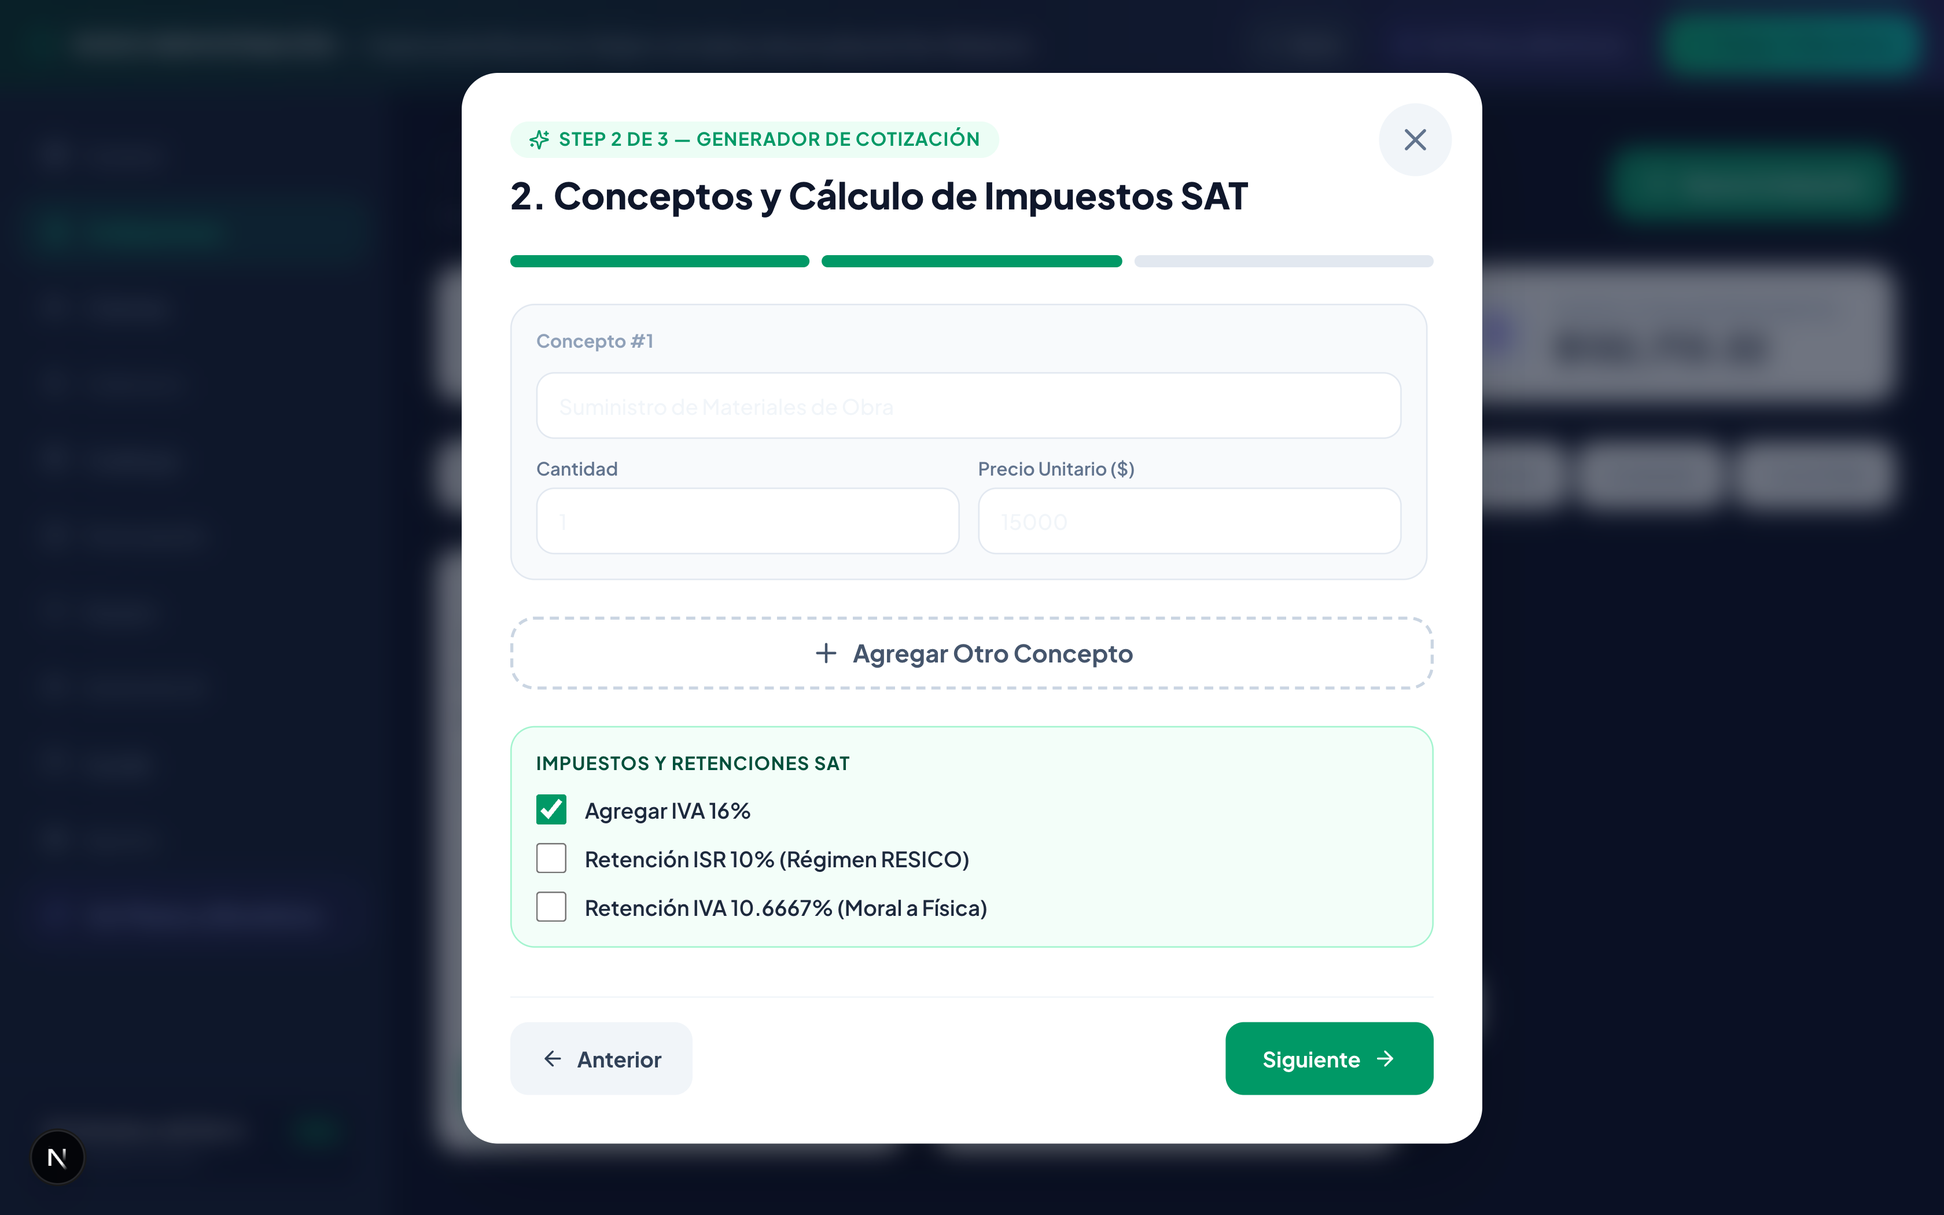
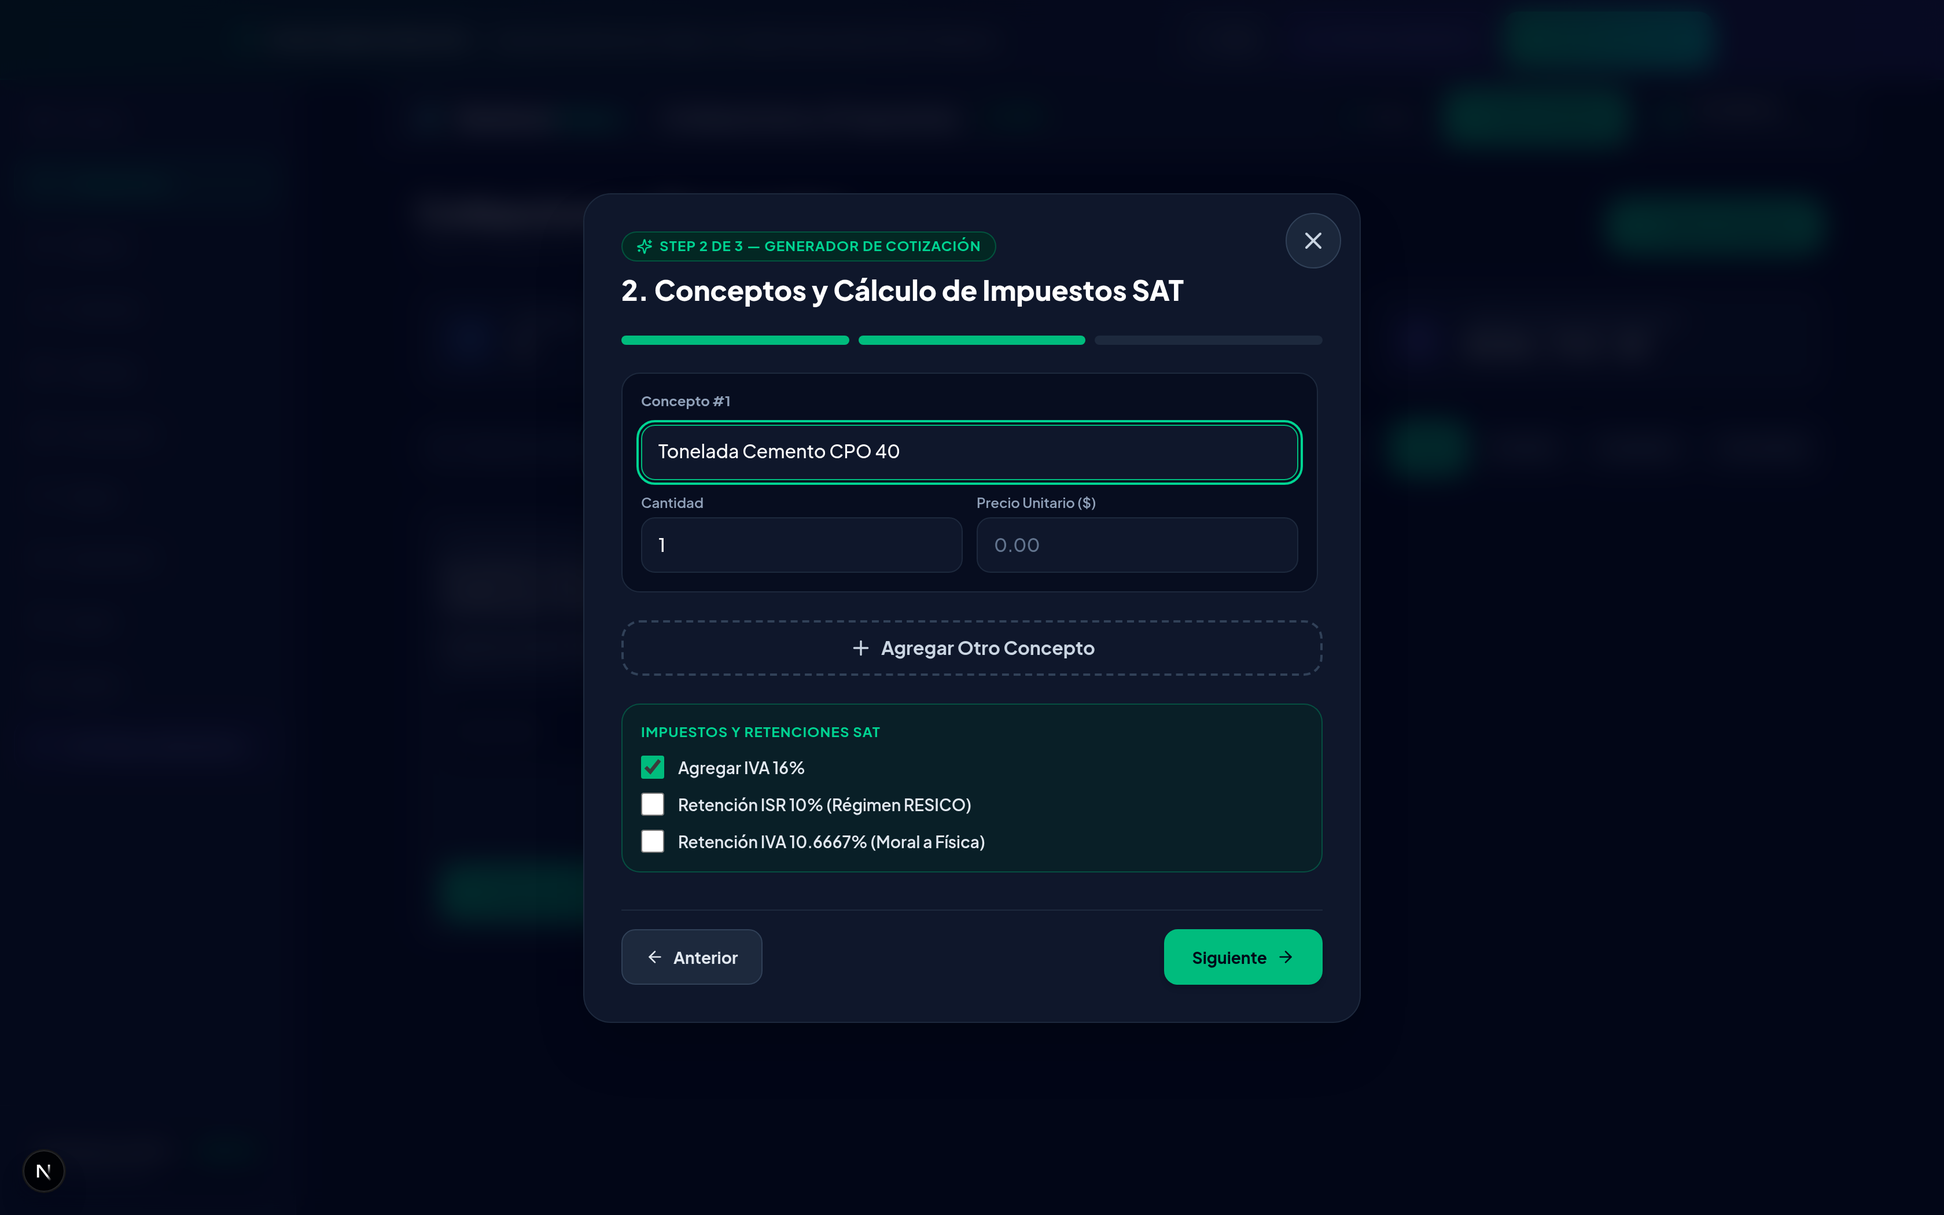
fix(landing): OTP copy says email, mailto buttons get a copy fallback, stale screenshots retaken
Three landing-page reports from the founder:

- The showcase headline promised an OTP "desde su celular"; email has been
  the launch channel since 2026-08-11 (lib/otpDelivery.ts). Reworded the
  headline, and fixed the two remaining "OTP por WhatsApp" claims the same
  grep surfaced in lib/stripe.ts plan features and app/demo/page.tsx.

- The "send email" buttons are mailto: links, which silently do nothing on
  a device with no mail handler. Added CopyEmailButton — a copy-to-clipboard
  fallback that only says "Copiado" after the copy actually happened — next
  to every published address in ContactSection and TeamSection.

- cuj_05_signing_otp_modal.png promised an SMS code and showed a retired
  light theme; cuj_04 and cuj_07 were also captures of the old light UI.
  Retook all three against the current app (dev server in demo mode,
  Playwright + bundled Chromium). The OTP shot shows the real modal in its
  email-sent state.

Retaking cuj_07 exposed that /pay/[token] renders an empty CLABE box with
a copy button that copies nothing when the row has no CLABE (the demo
fixture ships clabe: null on purpose). It now names the absence instead,
per the #44 rule; pinned in PublicPayPage.test.tsx and shown to fail with
the fix reverted.

Verified: typecheck, lint (0 warnings), vitest 1707 passed, next build.
Screenshots verified against the local dev server only — no third-party
call is involved in this change.
[…]

diff --git a/tests/components/CopyEmailButton.test.tsx b/tests/components/CopyEmailButton.test.tsx
@@ -1,0 +1,115 @@
+import React from 'react';
+import { render, screen, fireEvent, waitFor, cleanup } from '@testing-library/react';
+import { describe, it, expect, vi, afterEach } from 'vitest';
+import { CopyEmailButton } from '@/components/landing/CopyEmailButton';
+import { ContactSection } from '@/components/landing/ContactSection';
+import { TeamSection } from '@/components/landing/TeamSection';
+import { CONTACT_INFO, TEAM_MEMBERS } from '@/lib/trustData';
+
+/**
+ * The contact CTAs are mailto: links, which do nothing visible on a machine
+ * with no mail handler (the "buttons to send emails do not do anything"
+ * report). CopyEmailButton is the fallback that must always work — and, per
+ * hard rule #1, must never say "Copiado" for a copy that did not happen.
+ */
+
+function stubClipboard(writeText: (text: string) => Promise<void>) {
+  Object.defineProperty(navigator, 'clipboard', {
+    value: { writeText },
+    configurable: true,
+  });
+}
+
+function removeClipboard() {
+  Object.defineProperty(navigator, 'clipboard', {
+    value: undefined,
+    configurable: true,
+  });
+}
+
+afterEach(() => {
+  cleanup();
+  removeClipboard();
+  vi.restoreAllMocks();
+});
+
+describe('CopyEmailButton', () => {
+  it('copies the address to the clipboard and reports "Copiado"', async () => {
+    const writeText = vi.fn().mockResolvedValue(undefined);
+    stubClipboard(writeText);
+
+    render(<CopyEmailButton email="contacto@businesshelper.app" />);
+    fireEvent.click(screen.getByRole('button', { name: /copiar correo/i }));
+
+    await waitFor(() => {
+      expect(screen.getByText('Copiado')).toBeInTheDocument();
+    });
+    expect(writeText).toHaveBeenCalledWith('contacto@businesshelper.app');
+  });
+
+  it('does NOT claim "Copiado" when every copy mechanism fails', async () => {
+    // No async clipboard API at all, and execCommand refuses.
+    removeClipboard();
+    document.execCommand = vi.fn().mockReturnValue(false);
+
+    render(<CopyEmailButton email="contacto@businesshelper.app" />);
+    fireEvent.click(screen.getByRole('button', { name: /copiar correo/i }));
+
+    await waitFor(() => {
+      expect(screen.getByText('No se pudo copiar')).toBeInTheDocument();
+    });
+    expect(screen.queryByText('Copiado')).not.toBeInTheDocument();
+  });
+
+  it('falls back to execCommand when the async clipboard API rejects', async () => {
+    stubClipboard(vi.fn().mockRejectedValue(new Error('denied')));
+    document.execCommand = vi.fn().mockReturnValue(true);
+
+    render(<CopyEmailButton email="soporte@businesshelper.app" />);
+    fireEvent.click(screen.getByRole('button', { name: /copiar correo/i }));
+
+    await waitFor(() => {
+      expect(screen.getByText('Copiado')).toBeInTheDocument();
+    });
+    expect(document.execCommand).toHaveBeenCalledWith('copy');
+  });
+});
+
+describe('ContactSection email affordances', () => {
+  it('renders a mailto link AND a copy fallback for every published address', () => {
+    render(<ContactSection />);
+
+    const addresses = [
+      CONTACT_INFO.email,
+      CONTACT_INFO.supportEmail,
+      CONTACT_INFO.founderEmail,
+      CONTACT_INFO.privacyEmail,
+    ];
+
+    addresses.forEach((address) => {
+      // The mailto CTA still exists for devices that do have a mail app…
+      const mailtoLinks = screen
+        .getAllByRole('link')
+        .filter((a) => (a.getAttribute('href') || '').startsWith(`mailto:${address}`));
+      expect(mailtoLinks.length, `missing mailto link for ${address}`).toBeGreaterThan(0);
+
+      // …and the copy button covers the devices where mailto does nothing.
+      expect(
+        screen.getByRole('button', { name: `Copiar correo ${address}` }),
+        `missing copy fallback for ${address}`
+      ).toBeInTheDocument();
+    });
+  });
+});
+
+describe('TeamSection email affordances', () => {
+  it('renders a copy fallback next to each member mailto link', () => {
+    render(<TeamSection />);
+
+    TEAM_MEMBERS.forEach((member) => {
+      expect(
+        screen.getByRole('button', { name: `Copiar correo ${member.contactEmail}` })
+      ).toBeInTheDocument();
+    });
+  });
+});

diff --git a/components/landing/ContactSection.tsx b/components/landing/ContactSection.tsx
@@ -3,6 +3,7 @@
 import React from 'react';
 import { CONTACT_INFO } from '@/lib/trustData';
 import { Mail, MapPin, Clock, ShieldCheck, User, HelpCircle } from 'lucide-react';
+import { CopyEmailButton } from '@/components/landing/CopyEmailButton';
 
 export function ContactSection() {
   return (
@@ -32,8 +33,9 @@ export function ContactSection() {
               <h3 className="text-base font-bold text-white tracking-tight">Contacto General</h3>
               <p className="text-xs text-slate-400 mt-1">Demos, información comercial y facturación.</p>
             </div>
-            <div className="text-sm font-extrabold text-indigo-400 break-all border-t border-slate-800/80 pt-4">
-              {CONTACT_INFO.email}
+            <div className="border-t border-slate-800/80 pt-4 flex items-center justify-between gap-3">
+              <span className="text-sm font-extrabold text-indigo-400 break-all">{CONTACT_INFO.email}</span>
+              <CopyEmailButton email={CONTACT_INFO.email} />
             </div>
           </div>
           <a
@@ -60,8 +62,9 @@ export function ContactSection() {
               </div>
               <p className="text-xs text-slate-400 mt-1">Ayuda con CFDI 4.0, timbrado y plataforma.</p>
             </div>
-            <div className="text-sm font-extrabold text-teal-400 break-all border-t border-slate-800/80 pt-4">
-              {CONTACT_INFO.supportEmail}
+            <div className="border-t border-slate-800/80 pt-4 flex items-center justify-between gap-3">
+              <span className="text-sm font-extrabold text-teal-400 break-all">{CONTACT_INFO.supportEmail}</span>
+              <CopyEmailButton email={CONTACT_INFO.supportEmail} />
             </div>
           </div>
           <a
@@ -83,8 +86,9 @@ export function ContactSection() {
               <h3 className="text-base font-bold text-white tracking-tight">Fundador & CEO</h3>
               <p className="text-xs text-slate-400 mt-1">Contacto directo con Hector Zamora para alianzas.</p>
             </div>
-            <div className="text-sm font-extrabold text-emerald-400 break-all border-t border-slate-800/80 pt-4">
-              {CONTACT_INFO.founderEmail}
+            <div className="border-t border-slate-800/80 pt-4 flex items-center justify-between gap-3">
+              <span className="text-sm font-extrabold text-emerald-400 break-all">{CONTACT_INFO.founderEmail}</span>
+              <CopyEmailButton email={CONTACT_INFO.founderEmail} />
             </div>
           </div>
           <a
@@ -107,10 +111,13 @@ export function ContactSection() {
           <Clock className="w-4 h-4 text-indigo-400 shrink-0" />
           <span>{CONTACT_INFO.hours}</span>
         </div>
-        <a href={`mailto:${CONTACT_INFO.privacyEmail}`} className="text-slate-400 hover:text-white transition-colors text-xs flex items-center gap-1.5">
-          <ShieldCheck className="w-4 h-4 text-teal-400 shrink-0" />
-          <span>Derechos ARCO: <strong className="text-slate-300">{CONTACT_INFO.privacyEmail}</strong></span>
-        </a>
+        <div className="flex items-center gap-2">
+          <a href={`mailto:${CONTACT_INFO.privacyEmail}`} className="text-slate-400 hover:text-white transition-colors text-xs flex items-center gap-1.5">
+            <ShieldCheck className="w-4 h-4 text-teal-400 shrink-0" />
+            <span>Derechos ARCO: <strong className="text-slate-300">{CONTACT_INFO.privacyEmail}</strong></span>
+          </a>
+          <CopyEmailButton email={CONTACT_INFO.privacyEmail} className="px-2.5" />
+        </div>
       </div>
     </div>
   );

diff --git a/components/landing/CopyEmailButton.tsx b/components/landing/CopyEmailButton.tsx
@@ -1,0 +1,95 @@
+'use client';
+
+import React, { useEffect, useRef, useState } from 'react';
+import { Check, Copy, AlertTriangle } from 'lucide-react';
+
+/**
+ * Copy-an-email-address button.
+ *
+ * The contact CTAs are `mailto:` links, and on a device with no mail handler
+ * configured (very common on desktop browsers) clicking one does nothing
+ * visible. This button is the fallback that always works: it puts the address
+ * on the clipboard so the visitor can paste it into whatever mail client they
+ * actually use.
+ *
+ * The label only says "Copiado" after the copy really happened — a failed
+ * copy says so instead of pretending (hard rule #1).
+ */
+
+type CopyState = 'idle' | 'copied' | 'failed';
+
+interface CopyEmailButtonProps {
+  email: string;
+  className?: string;
+}
+
+const RESET_AFTER_MS = 2500;
+
+function copyViaExecCommand(text: string): boolean {
+  try {
+    const textarea = document.createElement('textarea');
+    textarea.value = text;
+    textarea.setAttribute('readonly', '');
+    textarea.style.position = 'fixed';
+    textarea.style.opacity = '0';
+    document.body.appendChild(textarea);
+    textarea.select();
+    const copied = document.execCommand('copy');
+    document.body.removeChild(textarea);
+    return copied;
+  } catch {
+    return false;
+  }
+}
+
+export function CopyEmailButton({ email, className = '' }: CopyEmailButtonProps) {
+  const [state, setState] = useState<CopyState>('idle');
+  const resetTimer = useRef<ReturnType<typeof setTimeout> | null>(null);
+
+  useEffect(() => {
+    return () => {
+      if (resetTimer.current) clearTimeout(resetTimer.current);
+    };
+  }, []);
+
+  const handleCopy = async () => {
+    let copied = false;
+
+    try {
+      if (navigator.clipboard?.writeText) {
+        await navigator.clipboard.writeText(email);
+        copied = true;
+      }
+    } catch {
+      copied = false;
+    }
+
+    if (!copied) {
+      copied = copyViaExecCommand(email);
+    }
+
+    setState(copied ? 'copied' : 'failed');
+    if (resetTimer.current) clearTimeout(resetTimer.current);
+    resetTimer.current = setTimeout(() => setState('idle'), RESET_AFTER_MS);
+  };
+
+  return (
+    <button
+      type="button"
+      onClick={handleCopy}
+      aria-label={`Copiar correo ${email}`}
+      className={`inline-flex items-center justify-center gap-1.5 min-h-[48px] px-3 py-2 rounded-xl border border-slate-700 bg-slate-800/80 text-slate-200 hover:bg-slate-700 hover:text-white text-xs font-bold transition-colors active:scale-95 shrink-0 ${className}`}
+    >
+      {state === 'copied' ? (
+        <Check className="w-4 h-4 text-emerald-400" />
+      ) : state === 'failed' ? (
+        <AlertTriangle className="w-4 h-4 text-amber-400" />
+      ) : (
+        <Copy className="w-4 h-4" />
+      )}
+      <span>
+        {state === 'copied' ? 'Copiado' : state === 'failed' ? 'No se pudo copiar' : 'Copiar'}
+      </span>
+    </button>
+  );
+}

diff --git a/app/pay/[token]/page.tsx b/app/pay/[token]/page.tsx
@@ -308,17 +308,26 @@ export default function PublicPayPortalPage() {
           <div className="space-y-3 pt-2">
             <div>
               <span className="text-xs text-slate-400 block font-medium">CLABE Interbancaria (18 dígitos)</span>
-              <div className="flex items-center justify-between mt-1 bg-slate-950/80 p-3 rounded-2xl border border-slate-800">
-                <span className="min-w-0 break-all font-mono text-lg font-bold tracking-wider text-white">{milestone.clabe}</span>
-                <button
-                  type="button"
-                  onClick={handleCopyClabe}
-                  aria-label={copiedClabe ? 'CLABE copiada' : 'Copiar CLABE'}
-                  className="p-2 bg-indigo-600 hover:bg-indigo-500 rounded-xl text-white transition-colors min-h-[48px] min-w-[48px] flex items-center justify-center shadow-md"
-                >
-                  {copiedClabe ? <Check className="w-4 h-4 text-emerald-300" /> : <Copy className="w-4 h-4" />}
-                </button>
-              </div>
+              {milestone.clabe ? (
+                <div className="flex items-center justify-between mt-1 bg-slate-950/80 p-3 rounded-2xl border border-slate-800">
+                  <span className="min-w-0 break-all font-mono text-lg font-bold tracking-wider text-white">{milestone.clabe}</span>
+                  <button
+                    type="button"
+                    onClick={handleCopyClabe}
+                    aria-label={copiedClabe ? 'CLABE copiada' : 'Copiar CLABE'}
+                    className="p-2 bg-indigo-600 hover:bg-indigo-500 rounded-xl text-white transition-colors min-h-[48px] min-w-[48px] flex items-center justify-center shadow-md"
+                  >
+                    {copiedClabe ? <Check className="w-4 h-4 text-emerald-300" /> : <Copy className="w-4 h-4" />}
+                  </button>
+                </div>
+              ) : (
+                /* No CLABE on the row → say so; an empty box with a copy button
+                   that copies nothing reads as a broken page (#44: absent is
+                   absent — never a control that pretends the value exists). */
+                <div className="mt-1 bg-slate-950/80 p-3 rounded-2xl border border-slate-800 text-xs text-slate-400">
+                  El proveedor aún no registra su CLABE. Confírmala con él directamente antes de transferir.
+                </div>
+              )}
             </div>
 
             <div>

diff --git a/app/demo/page.tsx b/app/demo/page.tsx
@@ -52,7 +52,7 @@ export default function DemoPage() {
             Prueba la plataforma en vivo sin necesidad de registrarte
           </h1>
           <p className="text-slate-400 text-base sm:text-lg leading-relaxed">
-            Entra a la demostración interactiva para probar el generador de cotizaciones, la firma OTP por WhatsApp y el flujo de conciliación SPEI en tiempo real.
+            Entra a la demostración interactiva para probar el generador de cotizaciones, la firma con código OTP por correo y el flujo de conciliación SPEI en tiempo real.
           </p>
 
           <div className="pt-2">
@@ -94,7 +94,7 @@ export default function DemoPage() {
             <div className="w-10 h-10 rounded-xl bg-indigo-500/10 text-indigo-400 flex items-center justify-center border border-indigo-500/20">
               <CheckCircle2 className="w-5 h-5" />
             </div>
-            <h3 className="text-base font-bold text-white">Firma OTP por WhatsApp</h3>
+            <h3 className="text-base font-bold text-white">Firma Digital con Código OTP</h3>
             <p className="text-xs text-slate-400 leading-relaxed">
               Tus clientes aprueban cotizaciones en 1 clic con código OTP legal sin instalar aplicaciones.
             </p>

diff --git a/components/landing/TeamSection.tsx b/components/landing/TeamSection.tsx
@@ -3,6 +3,7 @@
 import React from 'react';
 import { TEAM_MEMBERS } from '@/lib/trustData';
 import { Building2, CheckCircle2, Mail } from 'lucide-react';
+import { CopyEmailButton } from '@/components/landing/CopyEmailButton';
 
 export function TeamSection() {
   return (
@@ -62,14 +63,15 @@ export function TeamSection() {
               </div>
             </div>
 
-            <div className="pt-4 border-t border-slate-800/60 flex items-center justify-start text-xs text-slate-400">
+            <div className="pt-4 border-t border-slate-800/60 flex items-center justify-between gap-3 text-xs text-slate-400">
               <a
                 href={`mailto:${member.contactEmail}?subject=${encodeURIComponent(`Contacto para ${member.name}`)}`}
-                className="flex items-center gap-1.5 text-indigo-400 font-bold hover:underline py-1"
+                className="flex items-center gap-1.5 text-indigo-400 font-bold hover:underline py-1 min-h-[48px]"
               >
                 <Mail className="w-3.5 h-3.5" />
                 <span>Contactar por Correo</span>
               </a>
+              <CopyEmailButton email={member.contactEmail} />
             </div>
           </div>
         ))}

diff --git a/tests/components/PublicPayPage.test.tsx b/tests/components/PublicPayPage.test.tsx
@@ -130,6 +130,18 @@ describe('what the payer is shown before paying', () => {
     await screen.findByText(/Este Cobro Ya Fue Registrado/i);
   });
 
+  it('names the missing CLABE instead of an empty box with a dead copy button', async () => {
+    // clabe: null is a real state (the demo fixture ships it, and a tenant can
+    // exist before registering a bank). The page used to render the empty
+    // value inside the copy row, with a copy button whose handler silently
+    // did nothing — a control pretending the value exists (#44).
+    fetchMock.mockResolvedValueOnce(jsonResponse(200, { milestone: { ...MILESTONE, clabe: null } }));
+    render(<PublicPayPortalPage />);
+
+    await screen.findByText(/El proveedor aún no registra su CLABE/i);
+    expect(screen.queryByRole('button', { name: /Copiar CLABE/i })).toBeNull();
+  });
+
   it('shows no CLABE at all when the read fails', async () => {
     // A client-side fallback here would put an account number on screen that no
     // organization owns, in front of someone about to transfer money to it.

diff --git a/app/page.tsx b/app/page.tsx
@@ -302,7 +302,7 @@ export default function LandingPage() {
                 02. Aprobación Digital con Código OTP
               </span>
               <h3 className="text-3xl font-black text-white tracking-tight">
-                Tu cliente autoriza con código OTP legal desde su celular sin crear cuentas
+                Tu cliente autoriza con un código OTP legal que llega a su correo, sin crear cuentas
               </h3>
               <p className="text-slate-400 text-sm leading-relaxed">
                 Al recibir tu mensaje en WhatsApp, tu cliente abre su propuesta en 1 clic y aprueba con el código que llega a su correo, con evidencia digital de aceptación y fecha certificada.

diff --git a/lib/stripe.ts b/lib/stripe.ts
@@ -56,7 +56,7 @@ export const STRIPE_PLANS: Record<string, StripeTierConfig> = {
     description: 'Ideal para independientes y freelancers que van iniciando.',
     features: [
       'Hasta 25 cotizaciones por mes',
-      'Firma digital OTP por WhatsApp',
+      'Firma digital con código OTP por correo',
       'Portal público de carga SPEI',
       'Timbrado CFDI 4.0 con tu propio PAC (Facturapi) — tu proveedor te cobra el timbrado, tú conservas tus sellos CSD.',
       'Soporte por correo electrónico',
